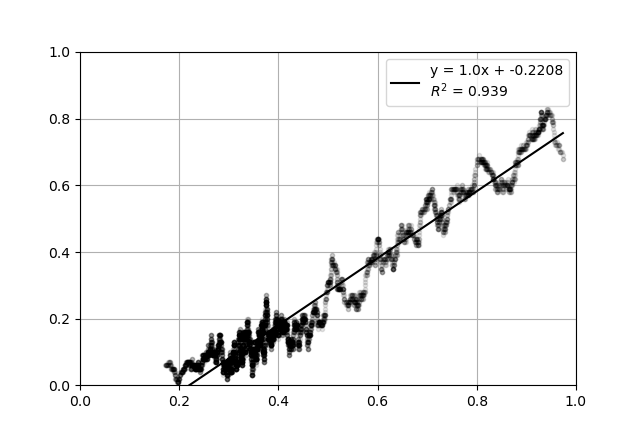
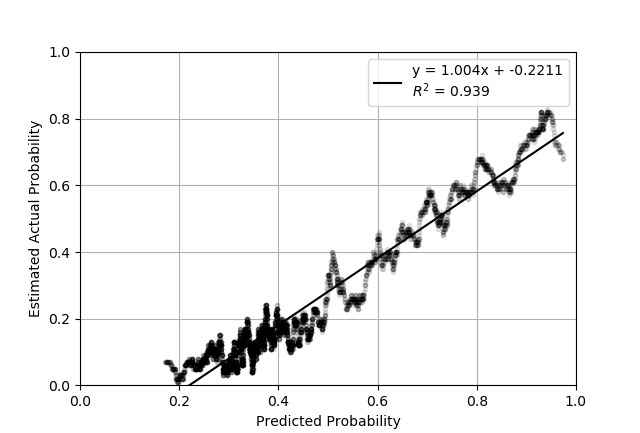
Add MSE vs. epoch analysis for NN regression

diff --git a/NeuralNetworks/lib/functions.py b/NeuralNetworks/lib/functions.py
@@ -122,7 +122,10 @@ def sorting_smoothing_method(y_pred, y_test, n=50):
     print(f"\tR2 score = {r2:1.3f}")
 
     # plot
-    plt.plot(pred_prob, line, 'k-', label=f"y = {slope:1.2}x + {intercept:1.4}\n$R^2$ = {r2:1.3}")
+    plt.plot(pred_prob, line, 'k-',
+        label=f"y = {slope:1.3f}x + " +
+        f"{intercept:1.4f}\n" +
+        f"$R^2$ = {r2:1.3f}")
     plt.plot(pred_prob, est_prob, 'k.', alpha=.1)
     plt.grid()
     plt.xlim(0, 1)
@@ -308,12 +311,21 @@ def NN_regression(X_train, y_train, X_test, y_test):
     layers = [2, 100, 60, 1]
     act_fns = ["tanh", "tanh", "linear"]
     NN = NeuralNetwork(layers=layers, cost=cost, act_fns=act_fns)
-    epochs = 100
+    epochs = 200
     batch_size = 100
     learning_rates = np.logspace(-2, -4, 3)
     regular_params = np.logspace(-4, -1, 4)
     r2_scores = np.zeros((3, 4))
     epoch_arr = np.linspace(1, epochs, epochs)
+
+    # MSE vs. epochs plot:
+    fig = plt.figure()
+    ax = plt.subplot(111)
+    line = [["b--", "b-.", "b:"],
+             ["g--", "g-.", "g:"],
+             ["r--", "r-.", "r:"],
+             ["y--", "y-.", "y:"]
+    ]
 
     for i, eta in enumerate(learning_rates):
         for j, reg in enumerate(regular_params):
@@ -322,12 +334,20 @@ def NN_regression(X_train, y_train, X_test, y_test):
                 epochs=epochs, batch_size=batch_size, eta=eta, reg=reg
             )
             r2_scores[i, j] = r2_score(y_test, NN.predict(X_test))
-            plt.plot(epoch_arr, NN.cost_arr, label=rf"$\eta=${eta:g}, $\lambda=${reg:g}")
+            ind = np.argmin(NN.cost_arr)
+            e = epoch_arr[ind]
+            c = NN.cost_arr[ind]
+            plt.plot(epoch_arr, NN.cost_arr, line[j][i], label=rf"$\eta, \lambda=$ ({eta:1.0e},{reg:1.0e})")
+            plt.plot(e, c, 'ro')
 
-    plt.ylabel("Cost function (MSE)")
+    plt.plot(epoch_arr, np.ones(epoch_arr.shape)*0.09, "k-", label=r"Irreducible error $\sigma^2$")
+    box = ax.get_position()
+    ax.set_position([box.x0, box.y0, box.width * 0.75, box.height])
+    ax.legend(loc='center left', bbox_to_anchor=(1, 0.5))
+    plt.ylim(0.089, 0.12)
     plt.xlabel("Epochs")
+    plt.ylabel("MSE")
     plt.grid()
-    plt.legend(loc="best")
     plt.show()
 
     fig, ax = plt.subplots(1, 1)

diff --git a/NeuralNetworks/main.py b/NeuralNetworks/main.py
@@ -2,7 +2,7 @@ import numpy as np
 from lib.functions import *
 from lib.test_functions import *
 # from lib.preprocessing import *
-np.random.seed(13)
+np.random.seed(11)
 
 
 def main():
@@ -17,7 +17,7 @@ def main():
     y_test = test_data["y"]
     # LogReg(X_train, y_train, X_test, y_test, epochs=1000)
     # NN_classification(X_train, y_train, X_test, y_test)
-    NN_classification_grid_search(X_train, y_train, X_test, y_test) # Best: eta=0.1 reg=1e-5
+    # NN_classification_grid_search(X_train, y_train, X_test, y_test) # Best: eta=0.1 reg=1e-5
 
 
     # ----- Regression, Franke Function -----
@@ -25,7 +25,7 @@ def main():
     X_train, y_train = generate_franke_data(N=30000, noise=.3)
     X_test, y_test = generate_franke_data(N=10000, noise=.3)
     # LinReg(X_train, y_train, X_test, y_test)
-    # NN_regression(X_train, y_train, X_test, y_test)
+    NN_regression(X_train, y_train, X_test, y_test)
     # Animations
     # animate_franke(X_train, y_train, X_test, y_test, epochs=100, activation="sigmoid")
     # animate_franke(X_train, y_train, X_test, y_test, epochs=100, activation="tanh")
